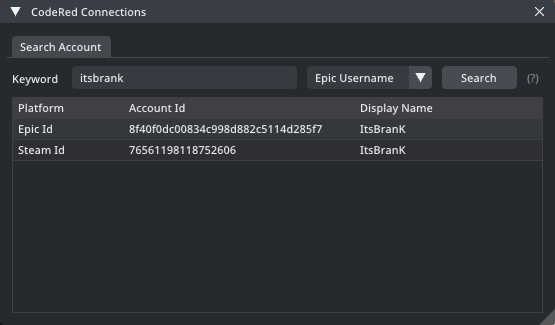
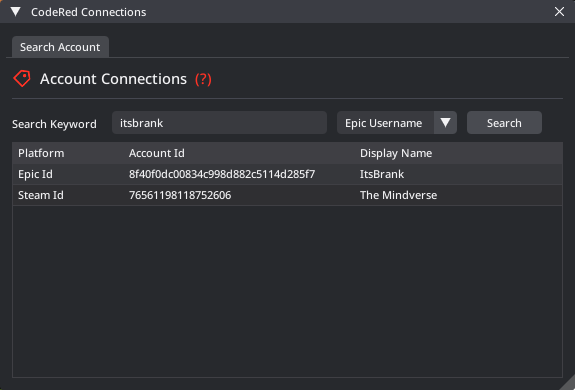
Initial Commit

diff --git a/changelog.html b/changelog.html
@@ -62,6 +62,7 @@
 		    <nav id="docs-nav" class="docs-nav navbar">
 			    <ul class="section-items list-unstyled nav flex-column pb-3">
                     <li class="nav-item section-title mt-3"><a class="nav-link scrollto" href="#section-3"><span class="theme-icon-holder me-2"><i class="fas fa-book"></i></span>Module Changelog</a></li>
+                    <li class="nav-item"><a class="nav-link scrollto" href="#item-3-9-6">Version 2.9.6</a></li>
                     <li class="nav-item"><a class="nav-link scrollto" href="#item-3-9-5">Version 2.9.5</a></li>
                     <li class="nav-item"><a class="nav-link scrollto" href="#item-3-9-4">Version 2.9.4</a></li>
                     <li class="nav-item"><a class="nav-link scrollto" href="#item-3-9-3">Version 2.9.3</a></li>
@@ -213,6 +214,15 @@
 		    <div class="container">
                 <article class="docs-article" id="section-3">
                     <h1 class="docs-heading">Changelog</h1>
+
+                        <section class="docs-section" id="item-3-9-6">
+                        <h2 class="section-heading">Version 2.9.6 (February 27th 2025)</h2>
+                            <h5>- Added a new debug setting <code>interface_localization_debug</code>, which displays some in game UI elements as their internal localization keys.</h5>
+                            <h5>- Added an offline indicator in the connections window that lets you know you need an internet connection to use it.</h5>
+                            <h5>- Added filesystem checks to make sure required files are being read or written to properly.</h5>
+                            <h5>- Fixed mouse button inputs not registering in game if you spam clicked while holding another mouse button down at the same time.</h5>
+                            <h5>- Fixed fully transparent custom textures resulting in a solid white square in game.</h5>
+                        </section>
 
                         <section class="docs-section" id="item-3-9-5">
                         <h2 class="section-heading">Version 2.9.5 (February 20th 2025)</h2>

diff --git a/documentation.html b/documentation.html
@@ -1258,8 +1258,12 @@
                                         <td>Value to customize the scale of april fools antennas.</td>
                                     </tr>
                                     <tr>
+                                        <th class="theme-bg-light"><b>interface_localization_debug &lttrue-false&gt</b></th>
+                                        <td>Displays specific in game UI elements as their localization keys instead of their actual text.</td>
+                                    </tr>
+                                    <tr>
                                         <th class="theme-bg-light"><b>interface_auto_claim &lttrue-false&gt</b></th>
-                                        <td>Automatically claims completed challenges at the end of online matches.</td>
+                                        <td>Displays all in game UI elements as their localization keys instead of their actual text.</td>
                                     </tr>
                                     <tr>
                                         <th class="theme-bg-light"><b>interface_auto_gg &lttrue-false&gt</b></th>
